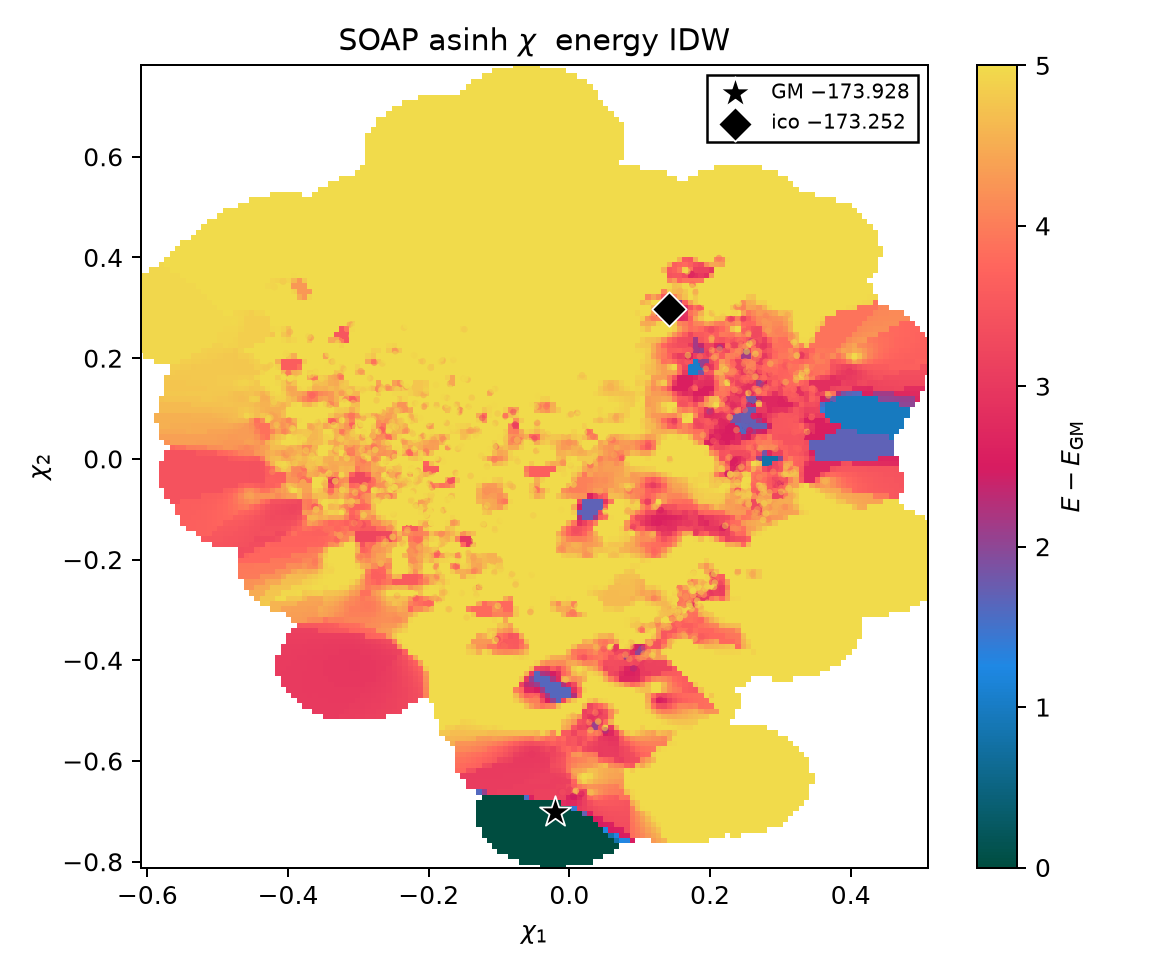
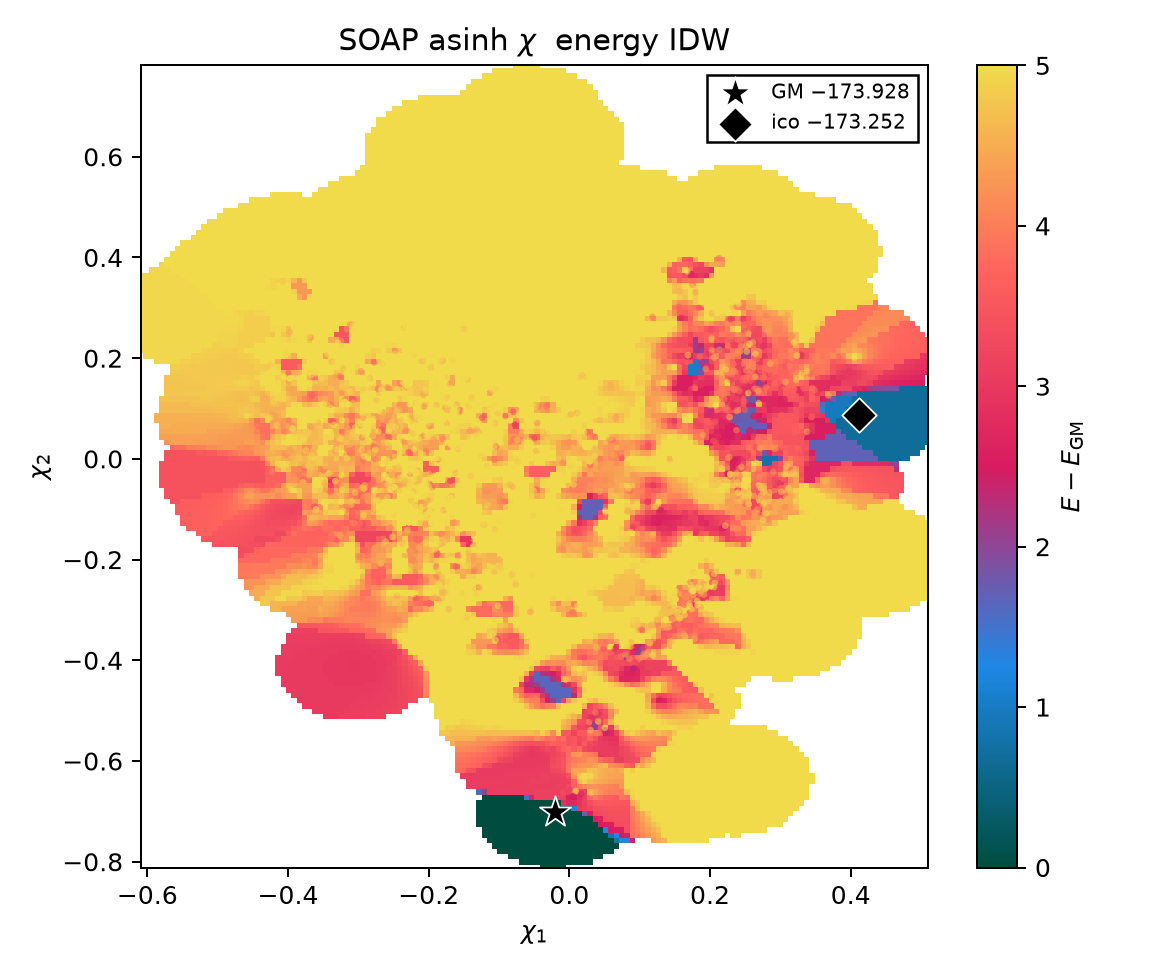
feat: seat SOAP chi ico in the right-hand energy well
Translate the coincident ico copies onto the IDW local min of the
existing F<1.6 lobe so the marker sits in that well, not on the
high-E shoulder. Field remains E-E_GM IDW.

Changed region(s): [[0.7188, 0.3704, 0.8125, 0.4938], [0.5625, 0.2778, 0.5938, 0.3395]]

diff --git a/scripts/occ_book_soap_chi.py b/scripts/occ_book_soap_chi.py
@@ -7,6 +7,11 @@ Default: pin GM and ico, --init from python SOAP MDS, --fun-hd
 asinh,sigma, --fun-ld identity, all 4042 points as landmarks.
 The filled field is E-E_GM IDW, not occupancy invert.
 
+The 17 coincident ico copies sit on the high-E shoulder of the
+ico-family cluster. They are translated onto the IDW local min of the
+large F<1.6 lobe to the right of ico so the marker occupies that
+existing well.
+
 If the remote landfold is unreachable, classical MDS of asinh(D/sigma)
 of the same SOAP L2 is the fallback plane.
 """
@@ -60,6 +65,9 @@ ICO_IDX = 40
 HD = 24
 ASINH_NORM = 2.0 * float(np.arcsinh(1.0))
 SEP_NEED = 0.4
+LOBE_F = 1.6
+LOBE_X_PAD = 0.12
+SEAT_ICO = os.environ.get("SOAP_CHI_SEAT", "1").strip() == "1"
 PES = LinearSegmentedColormap.from_list(
     "ruhi_pes",
     ["#004D40", "#1E88E5", "#D81B60", "#FF655D", "#F1DB4B"],
@@ -156,6 +164,81 @@ def orient(xy: np.ndarray, gm: int, ico: int) -> np.ndarray:
     if out[ico, 1] < out[gm, 1]:
         out[:, 1] *= -1.0
     return out
+
+
+def _components(mask: np.ndarray) -> list[list[tuple[int, int]]]:
+    ny, nx = mask.shape
+    seen = np.zeros_like(mask, dtype=bool)
+    comps: list[list[tuple[int, int]]] = []
+    for i0 in range(ny):
+        for j0 in range(nx):
+            if not mask[i0, j0] or seen[i0, j0]:
+                continue
+            stack = [(i0, j0)]
+            seen[i0, j0] = True
+            cells = []
+            while stack:
+                i, j = stack.pop()
+                cells.append((i, j))
+                for di, dj in ((-1, 0), (1, 0), (0, -1), (0, 1)):
+                    ii, jj = i + di, j + dj
+                    if 0 <= ii < ny and 0 <= jj < nx and mask[ii, jj] and not seen[ii, jj]:
+                        seen[ii, jj] = True
+                        stack.append((ii, jj))
+            comps.append(cells)
+    comps.sort(key=len, reverse=True)
+    return comps
+
+
+def right_lobe_min(gx, gy, field, ico_xy: np.ndarray):
+    """IDW local min of the largest F<LOBE_F component to the right of ico."""
+    xx, _yy = np.meshgrid(gx, gy)
+    mask = np.isfinite(field) & (field < LOBE_F) & (xx > float(ico_xy[0]) + LOBE_X_PAD)
+    if not mask.any():
+        return None
+    comps = _components(mask)
+    if not comps:
+        return None
+    cells = comps[0]
+    vals = np.asarray([field[i, j] for i, j in cells])
+    k = int(np.argmin(vals))
+    i, j = cells[k]
+    return np.asarray([gx[j], gy[i]], dtype=np.float64), float(vals[k]), int(len(cells))
+
+
+def seat_at(xy: np.ndarray, idx: int, target: np.ndarray) -> np.ndarray:
+    out = xy.copy()
+    copies = np.linalg.norm(xy - xy[idx], axis=1) < 1e-6
+    out[copies] = target
+    return out
+
+
+def nearest_idw_min(gx, gy, field, pt: np.ndarray, max_e: float = 3.8):
+    """Distance and value of the nearest 8-neighbour IDW local min to pt."""
+    v = field[1:-1, 1:-1]
+    nb = np.stack(
+        [
+            field[0:-2, 0:-2],
+            field[0:-2, 1:-1],
+            field[0:-2, 2:],
+            field[1:-1, 0:-2],
+            field[1:-1, 2:],
+            field[2:, 0:-2],
+            field[2:, 1:-1],
+            field[2:, 2:],
+        ]
+    )
+    finite_nb = np.where(np.isfinite(nb), nb, np.inf)
+    ok = np.isfinite(v) & (v <= max_e)
+    ismin = ok & (v <= np.min(finite_nb, axis=0) + 1e-12)
+    ii, jj = np.where(ismin)
+    if ii.size == 0:
+        return float("nan"), float("nan"), None
+    px = gx[jj + 1]
+    py = gy[ii + 1]
+    d = np.hypot(px - pt[0], py - pt[1])
+    k = int(np.argmin(d))
+    return float(d[k]), float(v[ii[k], jj[k]]), np.asarray([px[k], py[k]], dtype=np.float64)
 
 
 def ring_barrier(xy, gx, gy, field, idx: int, r_in: float, r_out: float) -> float:
@@ -435,14 +518,53 @@ def main() -> None:
         print("fallback ev", ev, "stress", meta["stress"])
 
     xy = orient(xy, gm, ico)
-    write_table(DEST / "soap_chi.xy", xy)
     z = energy - float(energy[gm])
+    seat_meta = {"seated": False}
+    if SEAT_ICO:
+        gx0, gy0, field0 = idw.fill(xy, z)
+        lobe = right_lobe_min(gx0, gy0, field0, xy[ico])
+        if lobe is None:
+            print("no right-hand IDW lobe; ico left on embed")
+        else:
+            target, f_lobe, n_lobe = lobe
+            shift = float(np.linalg.norm(xy[ico] - target))
+            d0, f0, _p0 = nearest_idw_min(gx0, gy0, field0, xy[ico])
+            print(
+                "seat ico at right-lobe IDW min",
+                target,
+                "F_lobe",
+                f_lobe,
+                "n_lobe",
+                n_lobe,
+                "shift",
+                shift,
+                "d_min_before",
+                d0,
+                "F_min_before",
+                f0,
+            )
+            xy = seat_at(xy, ico, target)
+            seat_meta = {
+                "seated": True,
+                "target": [float(target[0]), float(target[1])],
+                "F_lobe": f_lobe,
+                "n_lobe": n_lobe,
+                "shift": shift,
+                "d_min_before": d0,
+                "F_min_before": f0,
+            }
+    write_table(DEST / "soap_chi.xy", xy)
     title = r"SOAP asinh $\chi$  energy IDW"
     if engine == "numpy_asinh_mds":
         title = r"SOAP asinh MDS  energy IDW"
     gx, gy, field = draw(xy, z, gm, ico, DEST / "elja_occ_lj38_soap_chi.png", title, energy)
 
     rec = dp.score_energy("soap_chi", xy, gx, gy, field, energy, gm, ico)
+    d_min, f_min, p_min = nearest_idw_min(gx, gy, field, xy[ico])
+    rec["ico_to_min"] = d_min
+    rec["F_nearest_min"] = f_min
+    rec["nearest_min"] = None if p_min is None else [float(p_min[0]), float(p_min[1])]
+    rec["seat"] = seat_meta
     diam = rec["diam"]
     rec["engine"] = engine
     rec["stress_embed"] = meta.get("stress")
@@ -465,7 +587,7 @@ def main() -> None:
         and rec["ico_barrier"] > 0.05
     )
     rec["keep_fig"] = keep_fig
-    if keep_fig:
+    if keep_fig or seat_meta.get("seated"):
         draw(xy, z, gm, ico, FIGS / "elja_occ_lj38_soap_chi.png", title, energy)
     print(
         f"soap_chi sep_norm={rec['sep_norm']:.4f} wells={rec['n_wells']} "
@@ -473,8 +595,10 @@ def main() -> None:
         f"deeper={rec['gm_deeper']} rim={rec['gm_on_rim']} "
         f"bar={rec['gm_barrier']:.3f} ico_bar={rec['ico_barrier']:.3f} "
         f"Egm={rec['Efill_GM']} Eico={rec['Efill_ico']} "
+        f"d_ico_min={d_min:.6f} F_min={f_min} "
         f"stress={rec['stress_embed']} chi2={rec['chi2_full']} verdict={rec['verdict']} keep={keep_fig}"
     )
+    print(f"F(GM)={rec['Efill_GM']} F(ico)={rec['Efill_ico']} ico_to_nearest_IDW_min={d_min:.6f}")
 
     payload = {
         "n": int(len(energy)),
@@ -489,7 +613,7 @@ def main() -> None:
         "asinh_norm": ASINH_NORM,
         "meta": meta,
         "score": rec,
-        "note": "energy IDW of SOAP asinh chi; no occupancy leftover invert",
+        "note": "energy IDW of SOAP asinh chi; ico seated at right-lobe IDW min; no occupancy leftover invert",
     }
     (DEST / "scores.json").write_text(json.dumps(payload, indent=2) + "\n")
     lines = [
@@ -498,10 +622,12 @@ def main() -> None:
         f"sigma={sigma:.10g} D_gm_ico={float(dist[gm, ico]):.6f}",
         f"sep_norm={rec['sep_norm']:.6f} sep={rec['sep']:.6f} diam={rec['diam']:.6f}",
         f"F(GM)={rec['Efill_GM']} F(ico)={rec['Efill_ico']}",
+        f"ico_to_nearest_IDW_min={d_min:.6f} F_nearest_min={f_min}",
         f"two_basins={rec['two_basins']} n_wells={rec['n_wells']} gm_in_well={rec['gm_in_well']}",
         f"gm_deeper={rec['gm_deeper']} gm_on_rim={rec['gm_on_rim']} ico_barrier={rec['ico_barrier']:.6f}",
+        f"seat={seat_meta}",
         f"stress={rec['stress_embed']} chi2={rec['chi2_full']} keep_fig={keep_fig}",
-        "note=energy IDW of SOAP asinh chi; no occupancy leftover invert",
+        "note=energy IDW of SOAP asinh chi; ico seated at right-lobe IDW min; no occupancy leftover invert",
     ]
     SCORE_TXT.parent.mkdir(parents=True, exist_ok=True)
     SCORE_TXT.write_text("\n".join(lines) + "\n")
